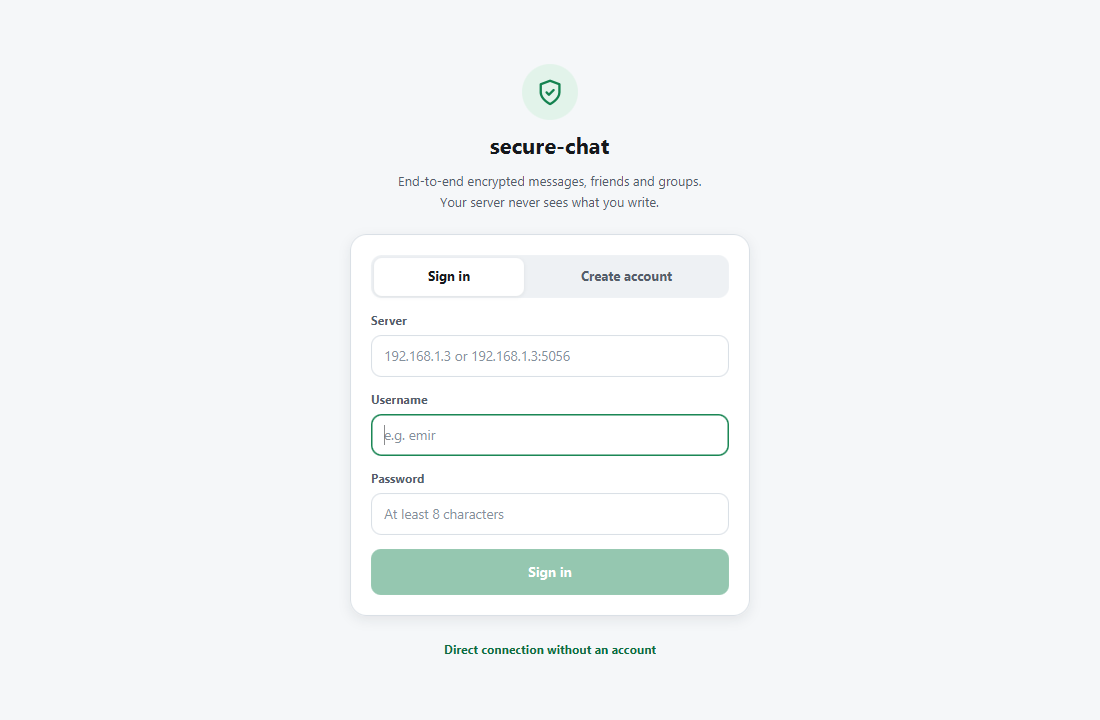
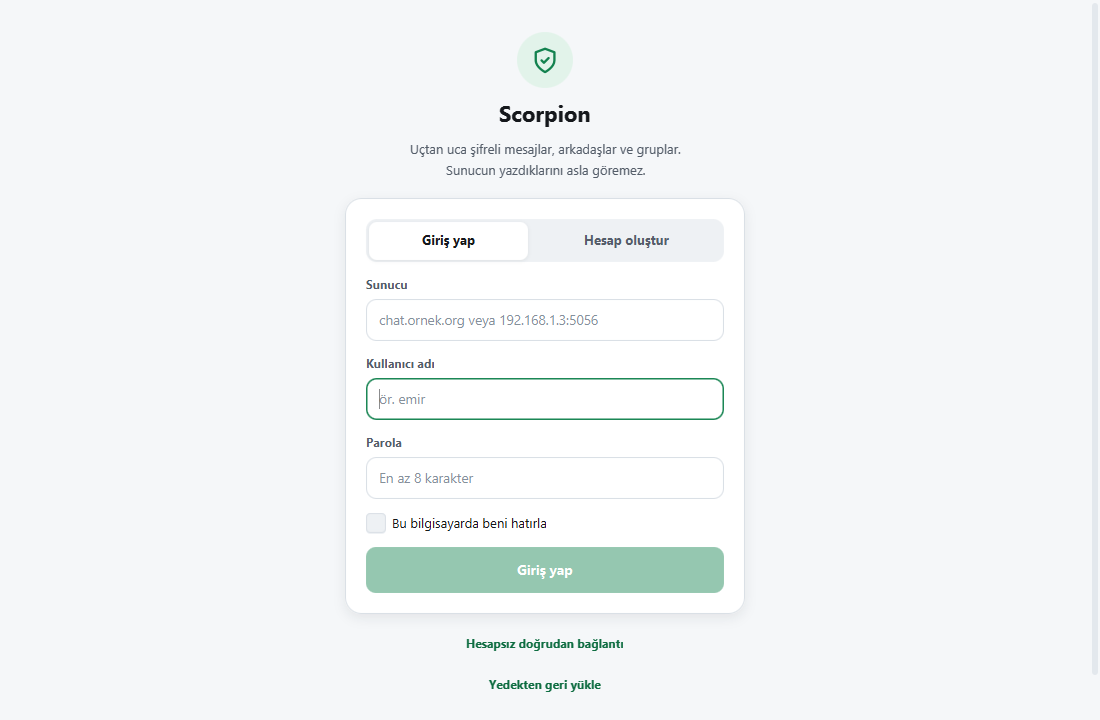
Document the Scorpion desktop app
README: new name and icon, download table for the installers, default
server and "Advanced", remember me, tray/autostart/reconnect, English
and Turkish, updates and help; 170 tests; link to third-party notices.
CHANGELOG: desktop-app entries for 3.2.0.

diff --git a/README.md b/README.md
@@ -1,10 +1,14 @@
-# secure-chat
+<p align="center"><img src="docs/scorpion-icon.png" width="96" alt="Scorpion icon"></p>
+
+# Scorpion
 
 [![CI](https://github.com/aemircicek/secure-chat/actions/workflows/ci.yml/badge.svg)](https://github.com/aemircicek/secure-chat/actions/workflows/ci.yml)
 
-End-to-end encrypted messenger for the desktop and the terminal: accounts, friends, direct
-messages and groups, written in Java using only the JDK's standard cryptography (no
-third-party crypto libraries). The server relays and stores messages it cannot read.
+**Scorpion** is an end-to-end encrypted messenger for Windows, macOS and Linux (plus a terminal
+client): accounts, friends, direct messages, groups and files, in English and Turkish. It is
+written in Java using only the JDK's standard cryptography (no third-party crypto libraries), and
+the server relays and stores messages it cannot read. This repository was called *secure-chat*
+before the desktop app got its name.
 
 <p align="center">
   <img src="docs/screenshots/account-dm-dark.png" width="420" alt="Encrypted direct messages">
@@ -20,14 +24,22 @@ direct message, and Sender Keys for groups.
 ## Quick start
 
 From the [latest release](https://github.com/aemircicek/secure-chat/releases/latest), download
-either a package with Java included (Windows: portable `.zip`, macOS: `.dmg`, Linux: `.deb`) or
-the jar for your platform (Java 21+ required). Or build it yourself with `mvn verify`.
+Scorpion with Java included:
+
+| | File | |
+|---|---|---|
+| Windows | `Scorpion-<version>-windows-x64.exe` | installer: no admin rights, Start menu and desktop shortcuts |
+| Windows | `Scorpion-<version>-windows-x64-portable.zip` | unzip and run `Scorpion.exe` |
+| macOS | `Scorpion-<version>-macos-arm64.dmg` | |
+| Linux | `Scorpion-<version>-linux-x64.deb` | `sudo apt install ./Scorpion-*.deb` |
+
+There is also a runnable jar per platform (Java 21+ required), or build it yourself with `mvn verify`.
 
 Check a download before running it, with the checksum file or GitHub's signed build provenance:
 
 ```sh
 sha256sum -c SHA256SUMS --ignore-missing                       # on Windows: Get-FileHash <file>
-gh attestation verify secure-chat-windows-x64.jar -R aemircicek/secure-chat
+gh attestation verify Scorpion-3.2.0-windows-x64.exe -R aemircicek/secure-chat
 ```
 
 The packages are not code-signed (that needs paid certificates), so Windows SmartScreen and macOS
@@ -38,9 +50,10 @@ java -jar secure-chat.jar server                    # run a server on port 5056 
 java -jar secure-chat.jar                           # desktop app: register or log in
 ```
 
-In the desktop app, enter the server address (for example `localhost:5056`, or the server's LAN
-address), then register a username and password. To try it alone on one machine, open two app
-windows with different key directories:
+Register a username and password. Builds with a default server (set in
+`src/main/resources/default-server.properties`, optionally with its pinned fingerprint) connect to
+it directly; otherwise, or under *Advanced*, enter a server address such as `localhost:5056`. To
+try it alone on one machine, open two app windows with different data folders:
 
 ```sh
 java -jar secure-chat.jar gui --home ./alice
@@ -49,7 +62,13 @@ java -jar secure-chat.jar gui --home ./bob
 
 ### Desktop app
 
-- **Accounts**: register and log in with a username and password.
+- **Accounts**: register and log in with a username and password; *Remember me* keeps the password
+  in the operating system's protected storage (Windows DPAPI, macOS Keychain, Linux Secret
+  Service) and signs in by itself.
+- **Always there**: closing the window keeps Scorpion in the tray so messages and notifications
+  still arrive; it can start with the computer, reconnects by itself after a network change or a
+  server restart, and keeps one window (a second start brings it forward).
+- **English and Turkish**, following the system or chosen on the login screen and in Settings.
 - **Server verification**: on first connection the app shows the server's key fingerprint; after
   that it is pinned and a different key is refused.
 - **Friends**: send, accept and decline requests; see who is online.
@@ -79,6 +98,8 @@ java -jar secure-chat.jar gui --home ./bob
 - **Encrypted backup**: Settings → *Back up this account* saves keys, sessions and history in one
   file encrypted with a passphrase of your choice; *Restore from a backup* on the login screen
   moves the account to another computer.
+- **Updates and help**: a banner when a new version is out (can be turned off), a short tour on
+  first start, an About dialog and a local log file for troubleshooting.
 - Light and dark themes, following the system.
 
 <p align="center">
@@ -245,7 +266,7 @@ Users then authenticate with their password inside the channel. Low-order X25519
 
 ### Tests
 
-`mvn verify` runs 161 tests, including RFC 5869 test vectors and attack scenarios:
+`mvn verify` runs 170 tests, including RFC 5869 test vectors and attack scenarios:
 
 - **Transport**: tampered, replayed, reordered and reflected records; an impersonated client or
   server presenting a different key; tampered handshake messages.
@@ -318,4 +339,4 @@ See [SECURITY.md](SECURITY.md) for how to report a vulnerability.
 
 ## License
 
-[MIT](LICENSE) © 2026 Emir Çiçek. Icons adapted from [Feather](https://github.com/feathericons/feather) (MIT).
+[MIT](LICENSE) © 2026 Emir Çiçek. Third-party components and their licenses: [THIRD-PARTY-NOTICES.md](THIRD-PARTY-NOTICES.md).

diff --git a/CHANGELOG.md b/CHANGELOG.md
@@ -3,6 +3,15 @@
 ## Unreleased (3.2.0)
 
 ### Added
+- **Scorpion desktop app**: new name and icon; installers with Java included (Windows installer
+  and portable zip, macOS dmg, Linux deb); data in each OS's usual folder (the old
+  `~/.securechat` is moved there).
+- **English and Turkish** interface.
+- **Default server** with an optional built-in fingerprint; other servers under "Advanced".
+- **Remember me** with the OS's protected storage (DPAPI, Keychain, Secret Service).
+- **Runs in the tray**, starts with the computer if wanted, **reconnects by itself**, one window
+  per data folder, `.scbackup` files open the restore dialog.
+- Update banner, About dialog, third-party notices, local log file, first-start tour.
 - **Replies, reactions, edits and "delete for everyone"**: messages carry an id inside the
   ciphertext; reactions, edits and deletions refer to it, and edits and deletions are accepted
   only from the author. Right-click a message in the desktop app.
@@ -18,7 +27,7 @@
   [docs/deploy.md](docs/deploy.md).
 - **Release packages** with Java included (Windows zip, macOS dmg, Linux deb), Sigstore build
   provenance for every file, and `SHA256SUMS`.
-- 22 new tests (161 in total).
+- 31 new tests (170 in total).
 
 ### Fixed
 - A message delivered again after its acknowledgement was lost (the app closed right after
